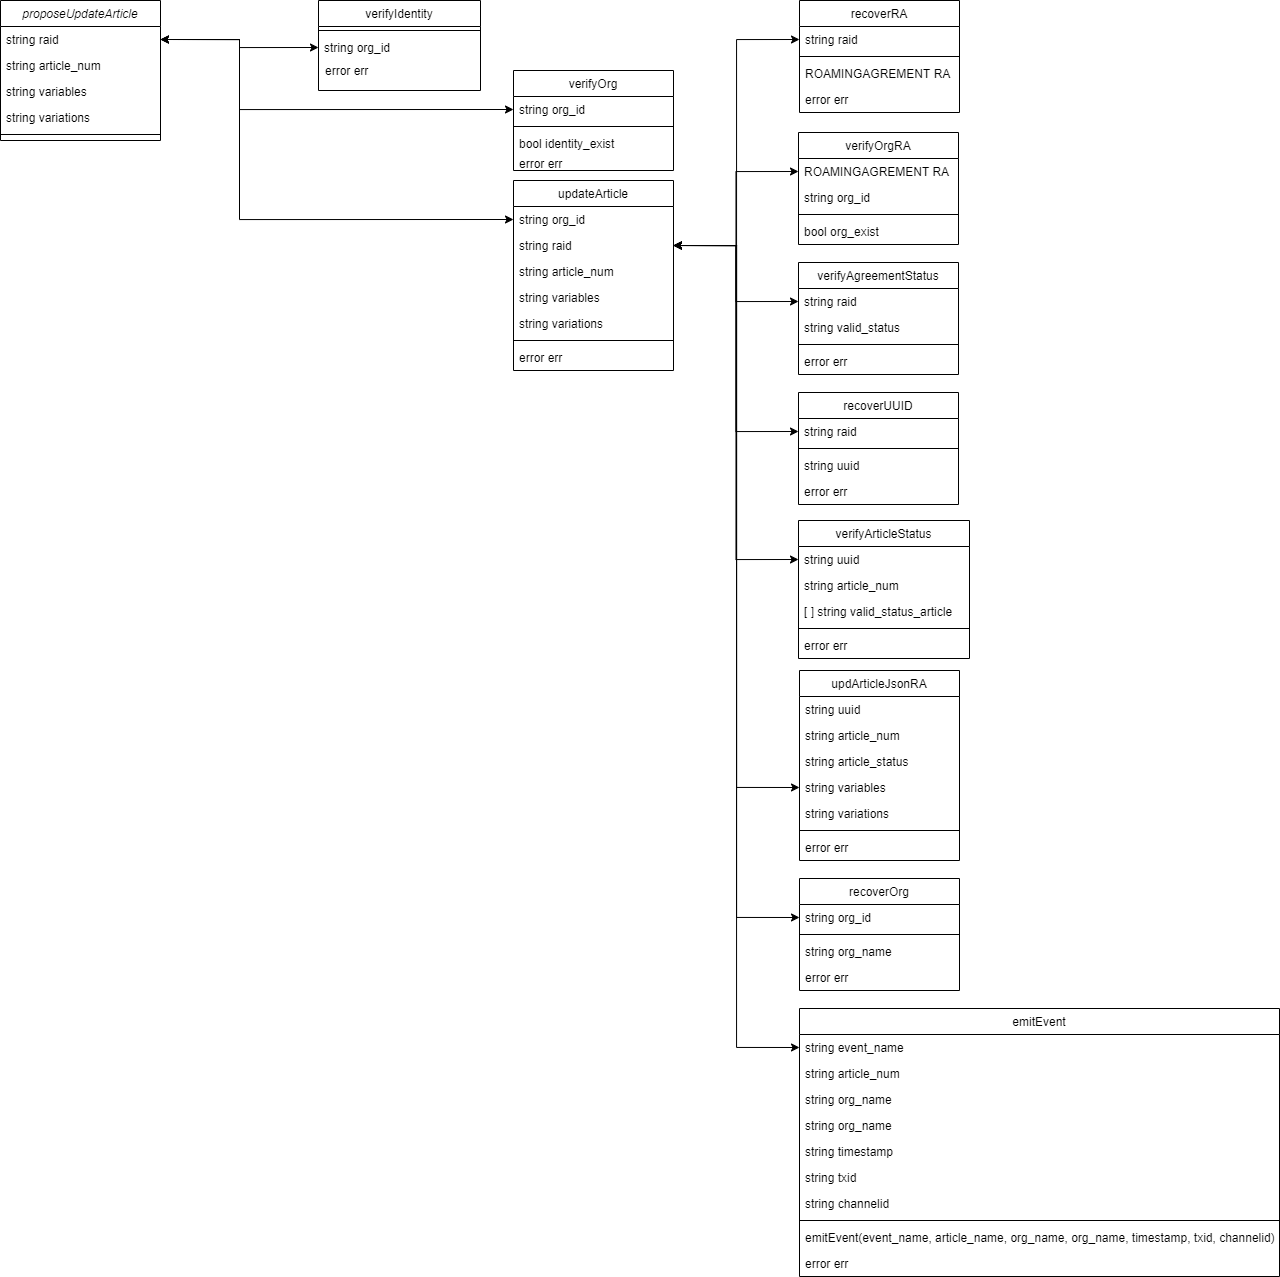
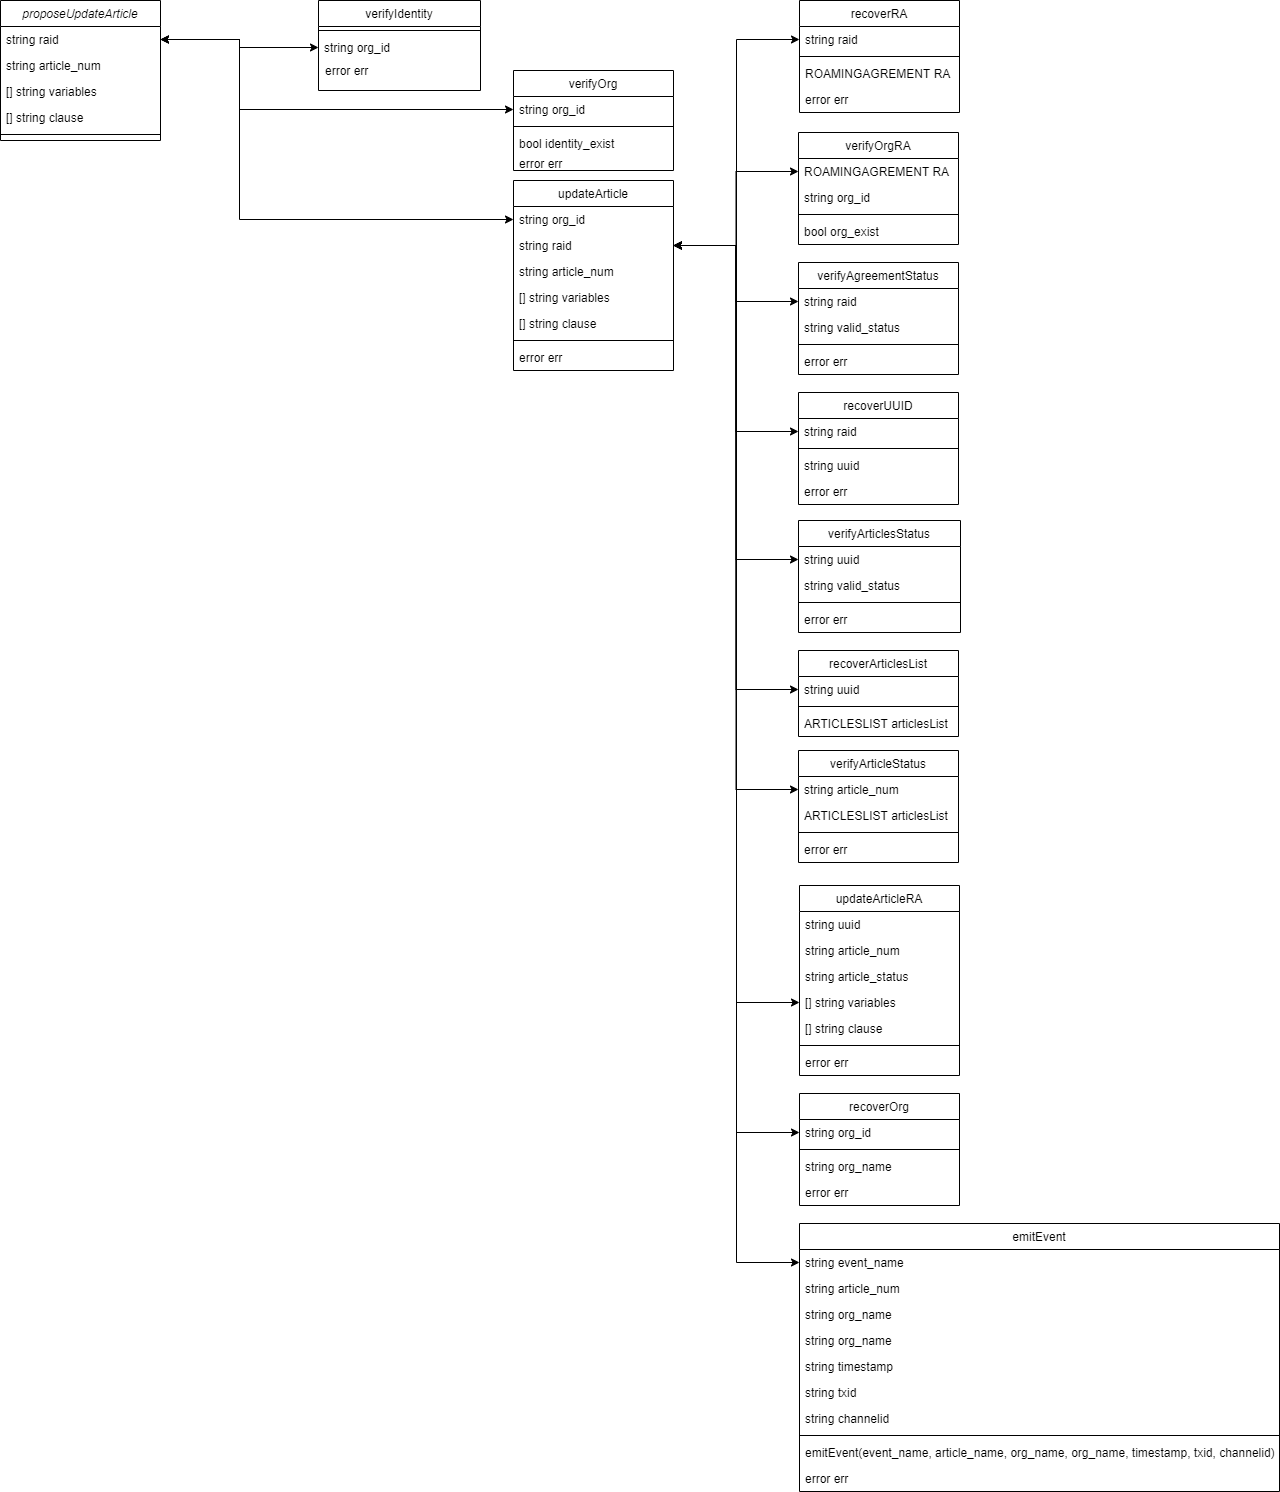
03.08.21.51

diff --git a/chaincode/README.md b/chaincode/README.md
@@ -169,10 +169,8 @@ The drafting of the Roaming Agreement involves to add article by article.
 - The Status for Roaming Agreement is verfied as `confirmation_ra_started`
 - The Status for Article Drafting is verfied as `init`
 - Identity is verified at each interaction.
-- The inputs are `RAID`, `article_num`, `variables` and `variations`.
-- The previous state of the Roamming Agreement (`confirm_ra_started`) is verified.
-- A new state of the Roamming Agreement is set to `drafting_agreement`.
-- An event is emitted once the state `proposed_changes` is set.
+- The inputs are `RAID`, `article_num`, `type`, `variables` and `values`.
+- An `proposed_add_article` event is emitted.
 
 ##### Part of Chaincode Sequence Diagram
 <img src="https://github.com/sfl0r3nz05/NLP-DLT/blob/main/chaincode/design/images/07.png">       
